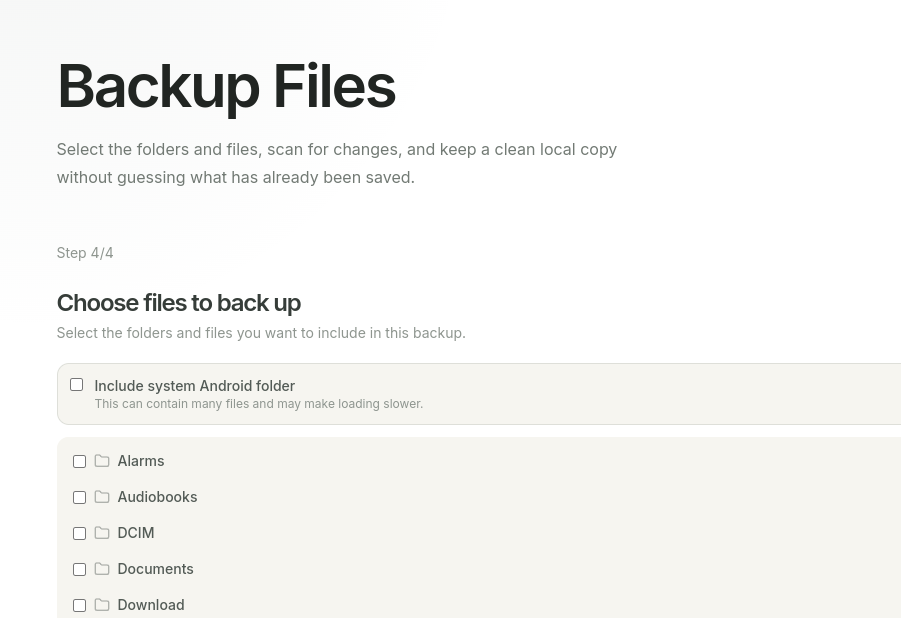
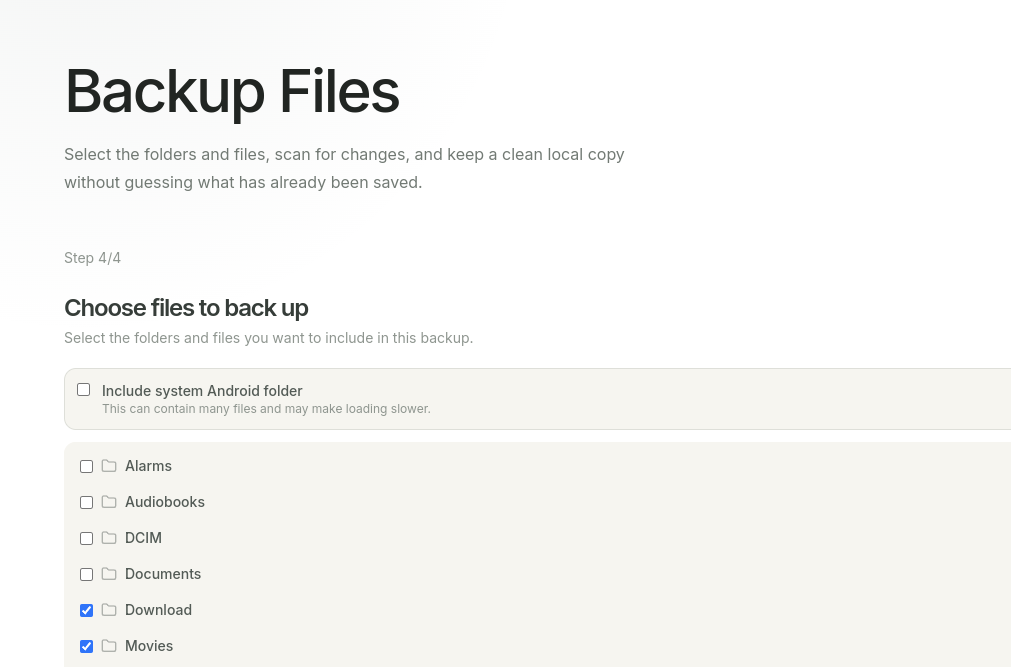
Update quick share UIs. Update homepage images.

diff --git a/renderer/src/components/QuickShare.jsx b/renderer/src/components/QuickShare.jsx
@@ -1,13 +1,12 @@
-import { useState, useEffect, useRef, useCallback } from 'react'
+import { useState, useEffect, useCallback } from 'react'
 import {
-  Wifi, WifiOff, QrCode, FolderOpen, Upload, Download, RefreshCw,
-  Copy, Check, X, FileUp, FileDown
+  Wifi, WifiOff, QrCode, FolderOpen, Download, RefreshCw,
+  Copy, Check, FileUp, FileDown
 } from 'lucide-react'
 import qrcode from '../qrcode.js'
 
 export function QuickShare() {
   const [running, setRunning] = useState(false)
-  const [status, setStatus] = useState(null)
   const [receiveDir, setReceiveDir] = useState('')
   const [shareDir, setShareDir] = useState('')
   const [port, setPort] = useState(0)
@@ -18,18 +17,14 @@ export function QuickShare() {
   const [pcFiles, setPcFiles] = useState([])
   const [error, setError] = useState('')
   const [copied, setCopied] = useState(false)
-  const [dragActive, setDragActive] = useState(false)
   const [busy, setBusy] = useState(false)
-  const logRef = useRef(null)
-  const [log, setLog] = useState([])
 
-  function addLog(msg) {
-    setLog(prev => [...prev.slice(-49), { time: new Date().toLocaleTimeString(), msg }])
-  }
+  // function addLog(msg) {
+  //   setLog(prev => [...prev.slice(-49), { time: new Date().toLocaleTimeString(), msg }])
+  // }
 
   const refreshStatus = useCallback(async () => {
     const s = await window.api.share.status()
-    setStatus(s)
     setRunning(s.running)
     if (s.running) {
       setPort(s.port)
@@ -44,10 +39,10 @@ export function QuickShare() {
     const off = window.api.share.onEvent((evt) => {
       if (evt.type === 'file-received') {
         setReceived(prev => [{ ...evt.payload, ts: Date.now() }, ...prev])
-        addLog(`Received: ${evt.payload.name} (${humanSize(evt.payload.size)})`)
+        // addLog(`Received: ${evt.payload.name} (${humanSize(evt.payload.size)})`)
       } else if (evt.type === 'file-downloaded') {
         setDownloads(prev => [{ ...evt.payload, ts: Date.now() }, ...prev])
-        addLog(`Phone downloaded: ${evt.payload.name} (${humanSize(evt.payload.size)})`)
+        // addLog(`Phone downloaded: ${evt.payload.name} (${humanSize(evt.payload.size)})`)
       }
     })
     return () => { if (off) off() }
@@ -59,7 +54,7 @@ export function QuickShare() {
         const qr = qrcode(0, 'M')
         qr.addData(qrUrl)
         qr.make()
-        setQrSvg(qr.createSvgTag({ cellSize: 4, margin: 2 }))
+        setQrSvg(qr.createSvgTag({ cellSize: 4, margin: 2, scalable: true }))
       } catch (err) {
         console.error('QR build failed:', err)
         setQrSvg('')
@@ -73,7 +68,7 @@ export function QuickShare() {
     const f = await window.api.share.pickFolder()
     if (f) {
       setReceiveDir(f)
-      addLog(`Receive folder: ${f}`)
+      // addLog(`Receive folder: ${f}`)
     }
   }
 
@@ -81,7 +76,7 @@ export function QuickShare() {
     const f = await window.api.share.pickFolder()
     if (f) {
       setShareDir(f)
-      addLog(`Share folder: ${f}`)
+      // addLog(`Share folder: ${f}`)
       if (running) {
         const r = await window.api.share.start({ port, receiveDir, shareDir: f })
         if (r.ok) { setPort(r.port); setQrUrl(r.url); refreshPcFiles() }
@@ -109,15 +104,14 @@ export function QuickShare() {
     setRunning(true)
     setPort(r.port)
     setQrUrl(r.url)
-    setStatus(await window.api.share.status())
-    addLog(`Server started on ${r.url}`)
+    // addLog(`Server started on ${r.url}`)
   }
 
   async function handleStop() {
     await window.api.share.stop()
     setRunning(false)
     setQrUrl('')
-    addLog('Server stopped')
+    // addLog('Server stopped')
     refreshStatus()
   }
 
@@ -127,22 +121,7 @@ export function QuickShare() {
       await navigator.clipboard.writeText(qrUrl)
       setCopied(true)
       setTimeout(() => setCopied(false), 1500)
-    } catch {}
-  }
-
-  async function handleDrop(e) {
-    e.preventDefault()
-    setDragActive(false)
-    const files = Array.from(e.dataTransfer.files || [])
-    if (!files.length) return
-    setBusy(true)
-    for (const f of files) {
-      const r = await window.api.share.addFile(f.path)
-      if (r.ok) addLog(`Added to share: ${f.name}`)
-      else addLog(`Failed: ${f.name} - ${r.error}`)
-    }
-    setBusy(false)
-    refreshPcFiles()
+    } catch { }
   }
 
   function humanSize(n) {
@@ -153,7 +132,7 @@ export function QuickShare() {
   }
 
   return (
-    <div className="space-y-3">
+    <div className="grid grid-cols-2 gap-3">
       <div className="card">
         <div className="flex items-center justify-between mb-3">
           <div className="flex items-center gap-2">
@@ -174,8 +153,8 @@ export function QuickShare() {
           a web page for sending/receiving files — no app install needed, works on any phone with a browser on the same WiFi.
         </p>
 
-        <div className="grid grid-cols-1 md:grid-cols-2 gap-3 mb-4">
-          <div>
+        <div className="flex flex-col">
+          <div className="flex flex-col gap-3 mb-4">
             <label className="text-xs text-taupe-500 mb-1 block">Receive folder (phone → PC)</label>
             <div className="flex gap-2">
               <input
@@ -187,94 +166,71 @@ export function QuickShare() {
               />
               <button onClick={handlePickReceive} className="btn-secondary"><FolderOpen className="w-4 h-4" /></button>
             </div>
-          </div>
-          <div>
-            <label className="text-xs text-taupe-500 mb-1 block">Share folder (PC → phone)</label>
-            <div className="flex gap-2">
-              <input
-                type="text"
-                value={shareDir}
-                onChange={(e) => setShareDir(e.target.value)}
-                className="input-main"
-                placeholder="Files the phone can browse/download"
-              />
-              <button onClick={handlePickShare} className="btn-secondary"><FolderOpen className="w-4 h-4" /></button>
+            <div>
+              <label className="text-xs text-taupe-500 mb-1 block">Share folder (PC → phone)</label>
+              <div className="flex gap-2">
+                <input
+                  type="text"
+                  value={shareDir}
+                  onChange={(e) => setShareDir(e.target.value)}
+                  className="input-main"
+                  placeholder="Files the phone can browse/download"
+                />
+                <button onClick={handlePickShare} className="btn-secondary"><FolderOpen className="w-4 h-4" /></button>
+              </div>
             </div>
           </div>
-        </div>
 
-        {error && <div className="text-sm text-danger mb-3">{error}</div>}
+          {error && <div className="text-sm text-danger mb-3">{error}</div>}
 
-        <div className="flex gap-3">
-          {!running ? (
-            <button onClick={handleStart} disabled={busy || !receiveDir || !shareDir} className="btn-action flex-1 flex items-center gap-2 justify-center">
-              {busy && <RefreshCw className="w-4 h-4 animate-spin" />}
-              <Wifi className="w-4 h-4" /> Start sharing
-            </button>
-          ) : (
-            <button onClick={handleStop} className="btn-danger flex-1 flex items-center justify-center gap-2">
-              <WifiOff className="w-4 h-4" /> Stop server
-            </button>
-          )}
+          <div className="flex gap-3">
+            {!running ? (
+              <button onClick={handleStart} disabled={busy || !receiveDir || !shareDir} className="btn-action flex-1 flex items-center gap-2 justify-center">
+                {busy && <RefreshCw className="w-4 h-4 animate-spin" />}
+                <Wifi className="w-4 h-4" /> Start sharing
+              </button>
+            ) : (
+              <button onClick={handleStop} className="btn-danger flex-1 flex items-center justify-center gap-2">
+                <WifiOff className="w-4 h-4" /> Stop server
+              </button>
+            )}
+          </div>
         </div>
       </div>
 
       {running && (
-        <div className="grid grid-cols-1 md:grid-cols-2 gap-3">
-          <div className="card">
-            <div className="flex items-center gap-2 mb-3">
-              <QrCode className="w-5 h-5 text-taupe-500" />
-              <h3 className="font-semibold text-taupe-700 dark:text-taupe-200">Scan with phone</h3>
-            </div>
-            <div className="flex flex-col items-center">
-              {qrSvg ? (
-                <div
-                  className="bg-white dark:bg-taupe-700 p-3 rounded-xl border border-taupe-200 dark:border-taupe-600"
-                  dangerouslySetInnerHTML={{ __html: qrSvg }}
-                  style={{ width: 232, height: 232 }}
-                />
-              ) : (
-                <div className="w-[232px] h-[232px] flex items-center justify-center text-taupe-400 text-sm">
-                  Generating…
-                </div>
-              )}
-              <div className="flex items-center gap-2 mt-3 w-full">
-                <code className="flex-1 text-xs font-mono px-3 py-2 bg-taupe-100 dark:bg-taupe-800 text-taupe-600 dark:text-taupe-400 truncate rounded-lg">{qrUrl}</code>
-                <button onClick={copyUrl} className="btn-secondary p-2" aria-label="Copy URL">
-                  {copied ? <Check className="w-4 h-4 text-action" /> : <Copy className="w-4 h-4" />}
-                </button>
-              </div>
-              <p className="text-xs text-taupe-400 mt-3 text-center">
-                Make sure your phone is on the same WiFi as this PC.
-              </p>
-            </div>
+        <div className="card">
+          <div className="flex items-center gap-2 mb-3">
+            <QrCode className="w-5 h-5 text-taupe-500" />
+            <h3 className="font-semibold text-taupe-700 dark:text-taupe-200">Scan with phone</h3>
           </div>
-
-          <div className="card">
-            <div className="flex items-center gap-2 mb-3">
-              <FileUp className="w-5 h-5 text-taupe-500" />
-              <h3 className="font-semibold text-taupe-700 dark:text-taupe-200">Quick add to share folder</h3>
+          <div className="flex flex-col items-center">
+            {qrSvg ? (
+              <div
+                className="bg-white dark:bg-taupe-700 p-3 rounded-xl border border-taupe-200 dark:border-taupe-600 [&>svg]:block [&>svg]:w-full [&>svg]:h-full"
+                dangerouslySetInnerHTML={{ __html: qrSvg }}
+                style={{ width: 232, height: 232 }}
+              />
+            ) : (
+              <div className="w-[232px] h-[232px] flex items-center justify-center text-taupe-400 text-sm">
+                Generating…
+              </div>
+            )}
+            <div className="flex items-center gap-2 mt-3 w-full">
+              <code className="flex-1 text-xs font-mono px-3 py-2 bg-taupe-100 dark:bg-taupe-800 text-taupe-600 dark:text-taupe-400 truncate rounded-lg">{qrUrl}</code>
+              <button onClick={copyUrl} className="btn-secondary p-2" aria-label="Copy URL">
+                {copied ? <Check className="w-4 h-4 text-action" /> : <Copy className="w-4 h-4" />}
+              </button>
             </div>
-            <div
-              onDragEnter={(e) => { e.preventDefault(); setDragActive(true) }}
-              onDragOver={(e) => { e.preventDefault(); setDragActive(true) }}
-              onDragLeave={(e) => { e.preventDefault(); setDragActive(false) }}
-              onDrop={handleDrop}
-              className={`border-2 border-dashed rounded-xl p-8 text-center text-sm transition-colors ${
-                dragActive
-                  ? 'border-action bg-action/5 text-action'
-                  : 'border-taupe-300 dark:border-taupe-600 text-taupe-500'
-              }`}
-            >
-              {busy ? <RefreshCw className="w-5 h-5 animate-spin mx-auto mb-2" /> : <Upload className="w-5 h-5 mx-auto mb-2" />}
-              Drag &amp; drop files here to copy into the share folder
-            </div>
+            <p className="text-xs text-taupe-400 mt-3 text-center">
+              Make sure your phone is on the same WiFi as this PC.
+            </p>
           </div>
         </div>
       )}
 
       {running && (
-        <div className="grid grid-cols-1 md:grid-cols-2 gap-3">
+        <>
           <div className="card">
             <div className="flex items-center justify-between mb-3">
               <div className="flex items-center gap-2">
@@ -315,7 +271,7 @@ export function QuickShare() {
               </ul>
             )}
           </div>
-        </div>
+        </>
       )}
 
       {running && downloads.length > 0 && (
@@ -332,20 +288,6 @@ export function QuickShare() {
               </li>
             ))}
           </ul>
-        </div>
-      )}
-
-      {log.length > 0 && (
-        <div className="card">
-          <div className="flex items-center justify-between mb-2">
-            <h3 className="font-semibold text-sm text-taupe-700 dark:text-taupe-200">Activity log</h3>
-            <button onClick={() => setLog([])} className="btn-secondary p-1.5"><X className="w-3.5 h-3.5" /></button>
-          </div>
-          <div ref={logRef} className="text-xs font-mono space-y-1 max-h-40 overflow-auto text-taupe-600 dark:text-taupe-400">
-            {log.map((l, i) => (
-              <div key={i}><span className="text-taupe-400">[{l.time}]</span> {l.msg}</div>
-            ))}
-          </div>
         </div>
       )}
     </div>

diff --git a/renderer/src/pages/HomePage.jsx b/renderer/src/pages/HomePage.jsx
@@ -1,10 +1,10 @@
-import { ArrowUpRight, Check, Smartphone } from 'lucide-react'
+import { ArrowUpRight } from 'lucide-react'
 
 export function HomePage({ onNavigate, deviceStatus }) {
   return (
     <main>
       <section className="flex flex-col items-center text-center py-12">
-        <h1 className="text-4xl tracking-tighter font-medium max-w-3xl text-taupe-900 sm:text-6xl dark:text-taupe-50">A simpler way to manage your Android files</h1>
+        <h1 className="text-4xl tracking-tighter font-semibold max-w-3xl text-taupe-900 sm:text-6xl dark:text-taupe-50">A simpler way to manage your Android files</h1>
         <p className="page-lede font-mono">Back up your Android phone and share files over your own network. No accounts, internet, or complex setup needed.</p>
         <div className="flex flex-wrap items-center gap-3 mt-7">
           <button className="btn-primary flex items-center gap-2" onClick={() => onNavigate('/backup')}>
@@ -31,8 +31,7 @@ export function HomePage({ onNavigate, deviceStatus }) {
 
           <article className="feature-panel feature-panel-peach">
             <div className="feature-placeholder feature-placeholder-peach h-96" role="img" aria-label="File control image placeholder">
-                            <img src="/image-2.png" alt="Quick backup" className="rounded-md w-96" />
-
+              <img src="/image-2.png" alt="Quick backup" className="rounded-md w-96" />
             </div>
             <div className="flex flex-col">
               <p className="eyebrow">1.2 / file control</p>
@@ -45,8 +44,7 @@ export function HomePage({ onNavigate, deviceStatus }) {
 
           <article className="feature-panel feature-panel-lavender">
             <div className="feature-placeholder feature-placeholder-lavender h-96" role="img" aria-label="Quick Share image placeholder">
-              <div className="placeholder-qr"><span /><span /><span /><span /><span /><span /></div>
-              <div className="placeholder-phone" />
+              <img src="/image-3.png" alt="Quick backup" className="rounded-md w-96" />
             </div>
             <div className="flex flex-col">
               <p className="eyebrow">1.3 / quick share</p>

diff --git a/renderer/src/index.css b/renderer/src/index.css
@@ -106,8 +106,7 @@ html.dark *::-webkit-scrollbar-thumb:hover {
   }
 
   .card {
-    @apply bg-zinc-50 dark:bg-zinc-900 rounded-2xl p-4
-            border border-taupe-200 dark:border-taupe-800;
+    @apply bg-olive-100/70 dark:bg-zinc-900 rounded-2xl p-4;
   }
 
   .site-header {
@@ -164,7 +163,7 @@ html.dark *::-webkit-scrollbar-thumb:hover {
 
   .page-intro h1,
   .info-page h1 {
-    @apply mt-3 max-w-2xl text-4xl font-semibold tracking-[-0.04em] text-taupe-900 sm:text-6xl dark:text-taupe-50;
+    @apply mt-3 max-w-2xl text-4xl font-medium tracking-[-0.04em] text-taupe-900 sm:text-6xl dark:text-taupe-50;
   }
 
   .eyebrow {
@@ -423,7 +422,7 @@ html.dark *::-webkit-scrollbar-thumb:hover {
   }
 
   .site-footer {
-    @apply mx-auto mt-24 w-full max-w-6xl bg-[#edfcf1] dark:bg-zinc-900 p-5 pt-5 rounded-2xl;
+    @apply mx-auto mt-24 w-full max-w-6xl bg-olive-100 dark:bg-zinc-900 p-5 pt-5 rounded-2xl;
   }
 
   .footer-topline,
